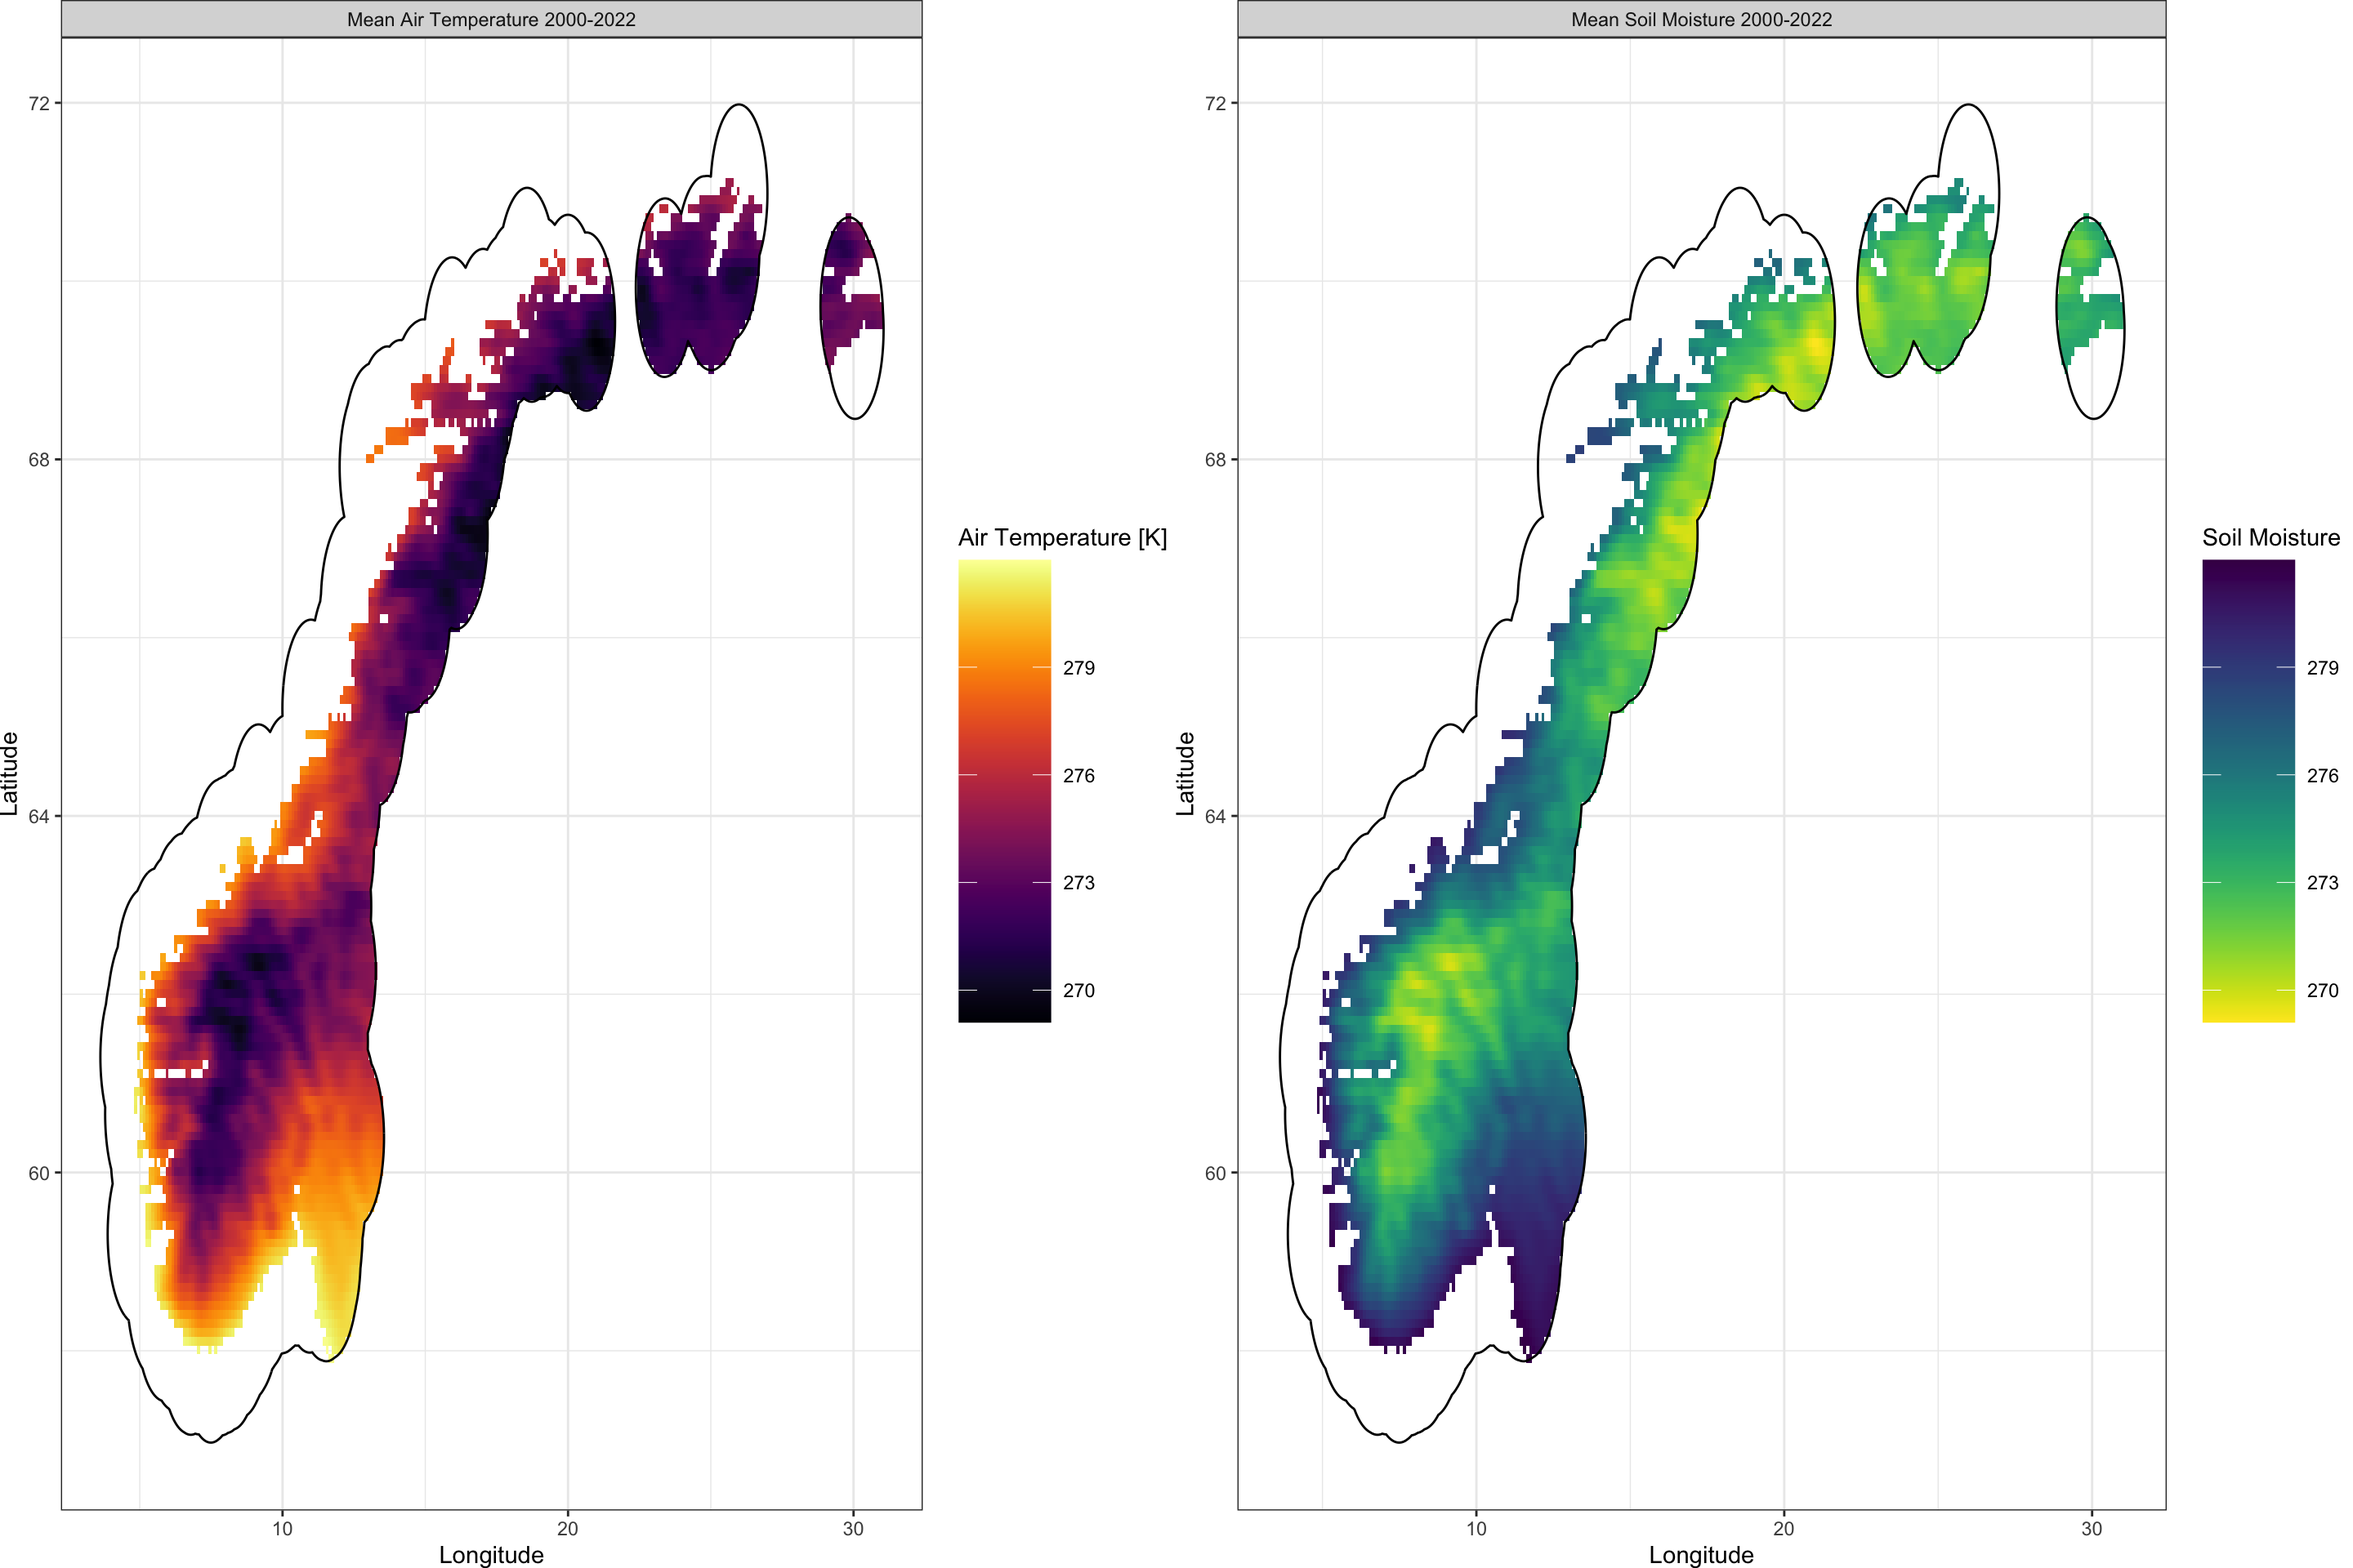
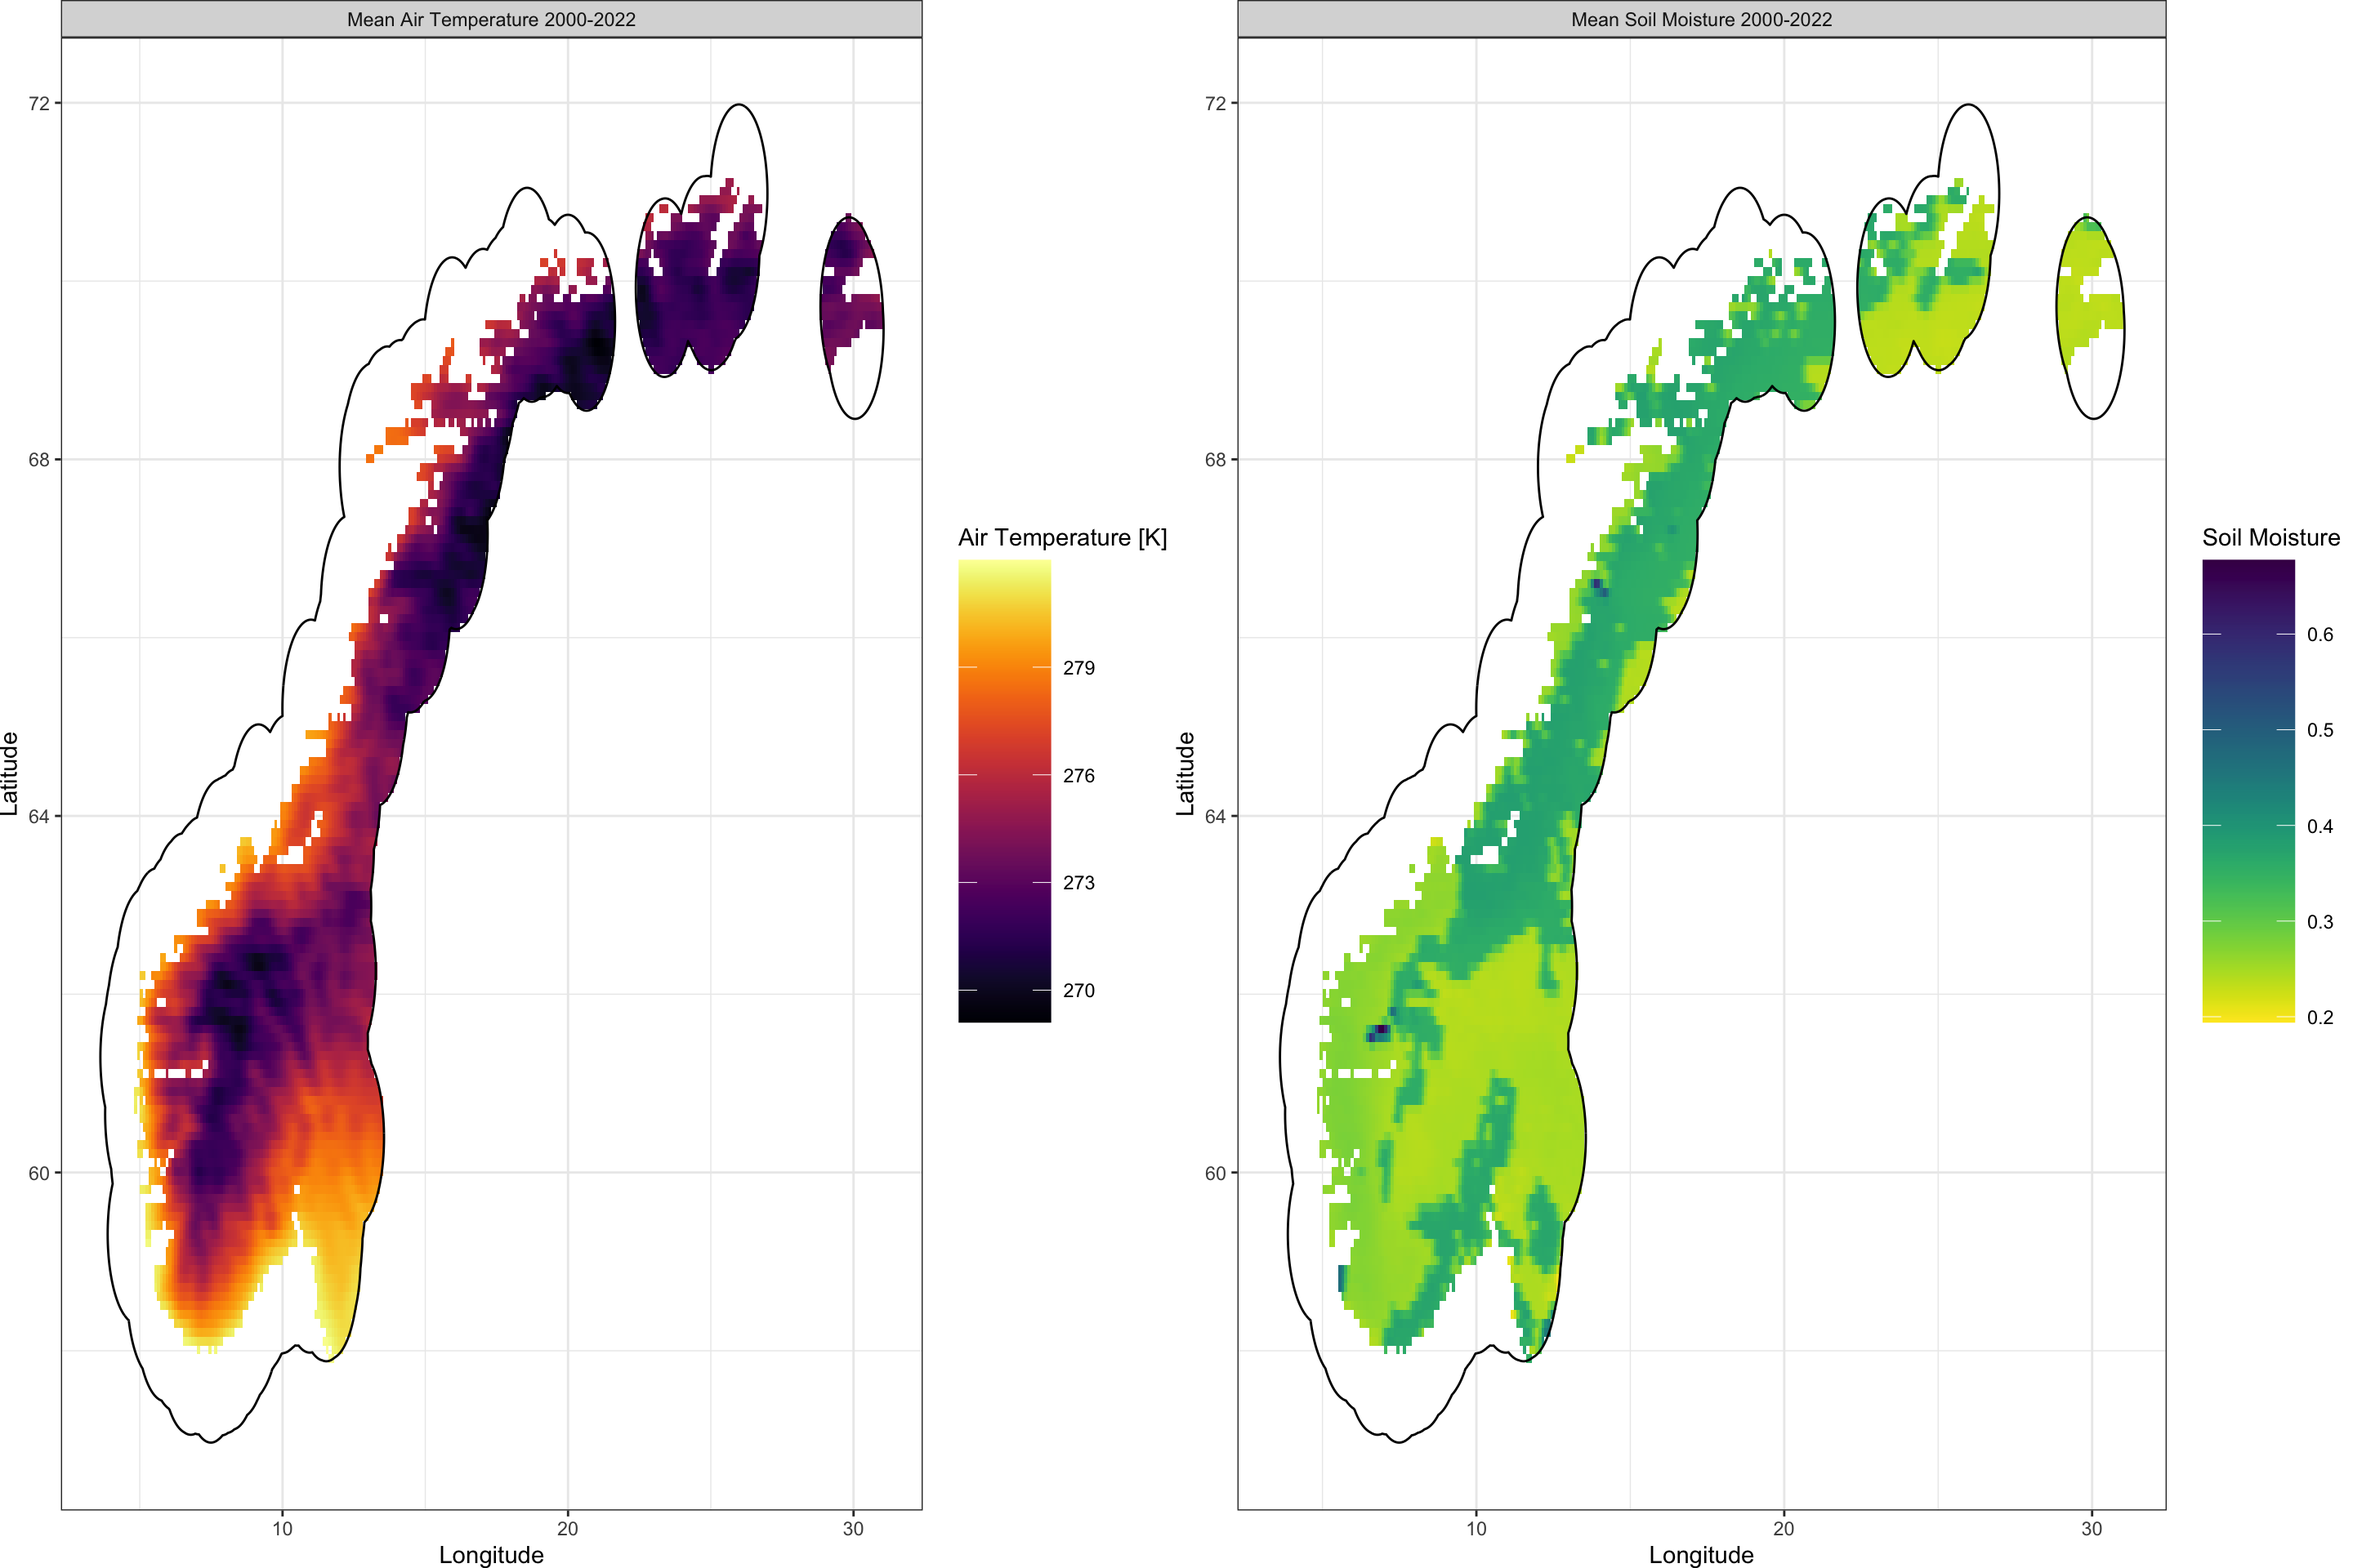
Fix typo in SL vis

Changed region(s): [[0.5625, 0.125, 0.8438, 0.875], [0.875, 0.125, 0.9062, 0.2188], [0.9688, 0.625, 1.0, 0.6562]]

diff --git a/content/courses/gbif/rgbif-climatedata.html b/content/courses/gbif/rgbif-climatedata.html
@@ -261,7 +261,7 @@ SL_crop &lt;- mask(SL_crop, as(buffer_sf, &quot;Spatial&quot;))</code></pre>
     Shp = as(buffer_sf, &quot;Spatial&quot;),
     Dates = c(&quot;Mean Air Temperature 2000-2022&quot;)
   ),
-  Plot_Raw(SL_crop$AT,
+  Plot_Raw(SL_crop$QS,
     Shp = as(buffer_sf, &quot;Spatial&quot;),
     COL = rev(viridis(100)),
     Legend = &quot;Soil Moisture&quot;,

diff --git a/content/courses/gbif/rgbif-climatedata.md b/content/courses/gbif/rgbif-climatedata.md
@@ -359,7 +359,7 @@ cowplot::plot_grid(
     Shp = as(buffer_sf, "Spatial"),
     Dates = c("Mean Air Temperature 2000-2022")
   ),
-  Plot_Raw(SL_crop$AT,
+  Plot_Raw(SL_crop$QS,
     Shp = as(buffer_sf, "Spatial"),
     COL = rev(viridis(100)),
     Legend = "Soil Moisture",
@@ -369,7 +369,7 @@ cowplot::plot_grid(
 ```
 
 <img src="rgbif-climatedata_files/figure-html/unnamed-chunk-17-1.png" width="1440" />
-Now, we can figure out (1) which cells of this raster contain presences, (2) identify which cells do not, (3) obtain coordinates of cells containing no GBIF presences and (4) extract climate conditions in absence cells:
+Now, we can figure out (1) which cells of this raster contain presences, (2) identify which cells do not, (3) obtain coordinates of cells containing no GBIF presences and (4) extract climate conditions in absence cells: 
 
 ```r
 Pres_cells <- raster::cellFromXY(SL_stack, occ_sp)
